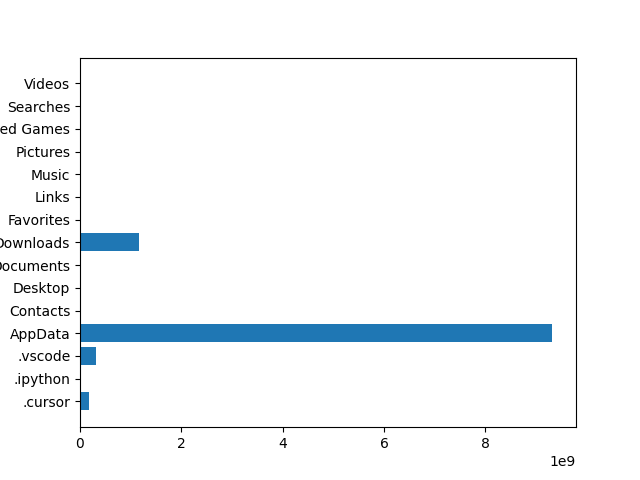
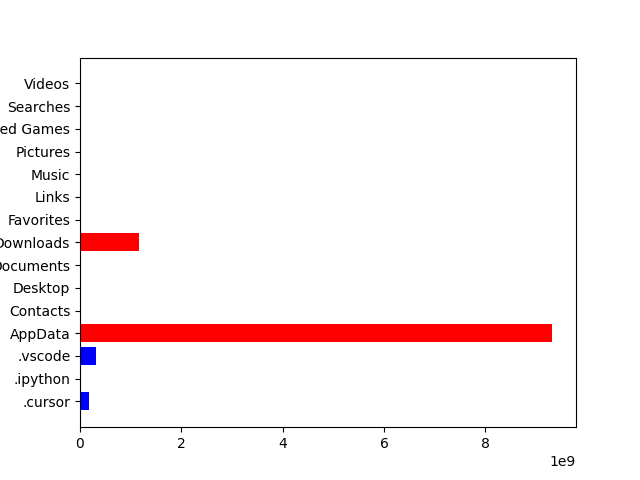
python_데이터_시각화_첫걸음_소스코드

Changed region(s): [[0.125, 0.6562, 0.875, 0.7812], [0.125, 0.4688, 0.2188, 0.5312], [0.125, 0.8125, 0.1562, 0.875]]

diff --git a/step_3_2.py b/step_3_2.py
@@ -5,7 +5,7 @@ from step_3_1 import load_plot_data
 
 plot_data = load_plot_data()
 fig, ax = plt.subplots()
-ax.barh(plot_data["stem"], plot_data["size"])
+ax.barh(plot_data["stem"], plot_data["size"], color=['blue', 'red'])    # API 사용의 예
 fig.savefig(OUT_DIR / f"{Path(__file__).stem}.png")
 
 ##########################################################(데이터_시각화_첫걸음_소스코드)
